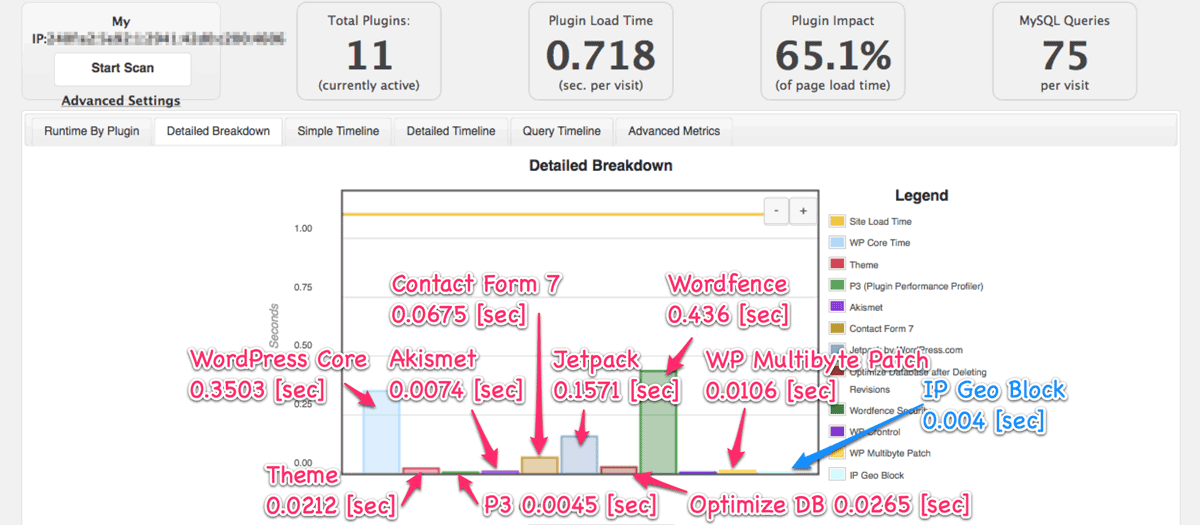
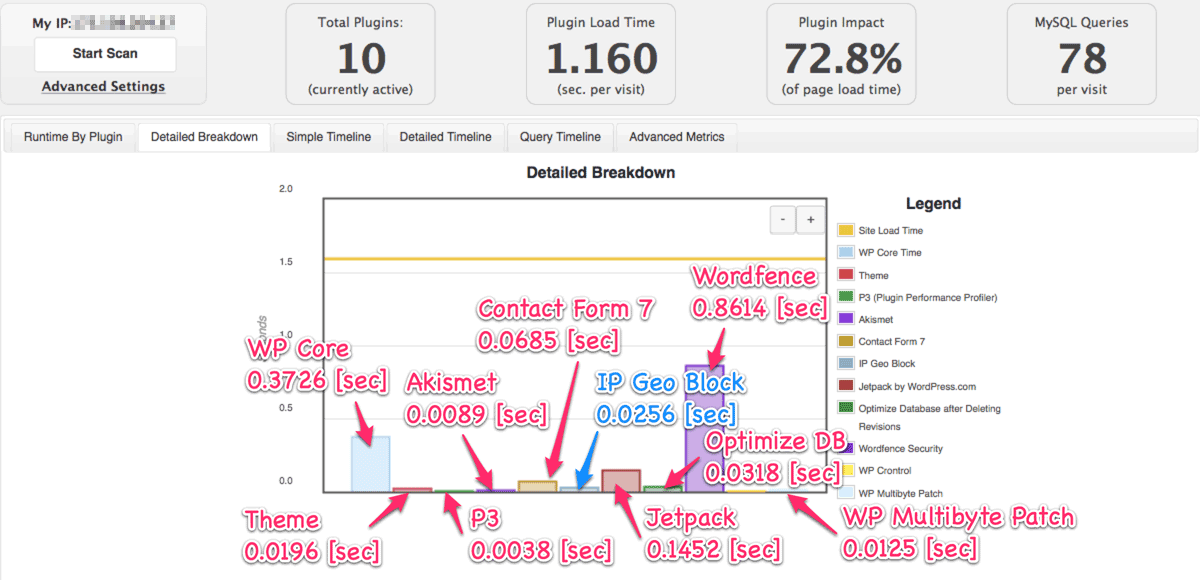
Re-mesured performance and update codex.

diff --git a/_codex/03. Features and performance/10/page-speed-performance.md b/_codex/03. Features and performance/10/page-speed-performance.md
@@ -17,7 +17,7 @@ inline:
 - **Plugins:**  
   Here's the list of activated plugins.  
   
-  ![Activated Plugins]({{ '/img/2016-10/P3-plugins.png' | prepend: site.baseurl }}
+  ![Activated Plugins]({{ '/img/2016-11/P3-plugins.png' | prepend: site.baseurl }}
    "Activated Plugins"
   )
 
@@ -33,7 +33,7 @@ inline:
     measure the performance of this plugin because 
     <a href="https://codex.wordpress.org/Must_Use_Plugins" title="Must Use Plugins &laquo; WordPress Codex">Must-use plugins</a>
     would be into the race condition.  
-    <img src="/img/2016-10/P3-mu-plugins.png" title="Must-use Plugins" />
+    <img src="/img/2016-11/P3-mu-plugins.png" title="Must-use Plugins" />
 </div>
 
 ### Results ###
@@ -51,12 +51,12 @@ report, "**Manual scan**" had performed only by accessing front-end pages.
 The following results were measured with a 
 [private window](https://support.mozilla.org/en-US/kb/private-browsing-use-firefox-without-history "Private Browsing - Use Firefox without saving history | Firefox Help").
 
-- **Use case 1:** - "**Auto scan**"  
+- **Use case 1:** - "**Auto scan**" (admin area + public facing pages)  
   ![The result of P3 (front-end and back-end)]({{ '/img/2016-11/P3-auto-scan.png' | prepend: site.baseurl }}
    "The result of P3 (front-end and back-end)"
   )
   
-- **Use case 2:** - "**Manual scan**"  
+- **Use case 2:** - "**Manual scan**" (only public facing pages)  
   ![The result of P3 (only front-end)]({{ '/img/2016-11/P3-manual-scan.png' | prepend: site.baseurl }}
    "The result of P3 (only front-end)"
   )
